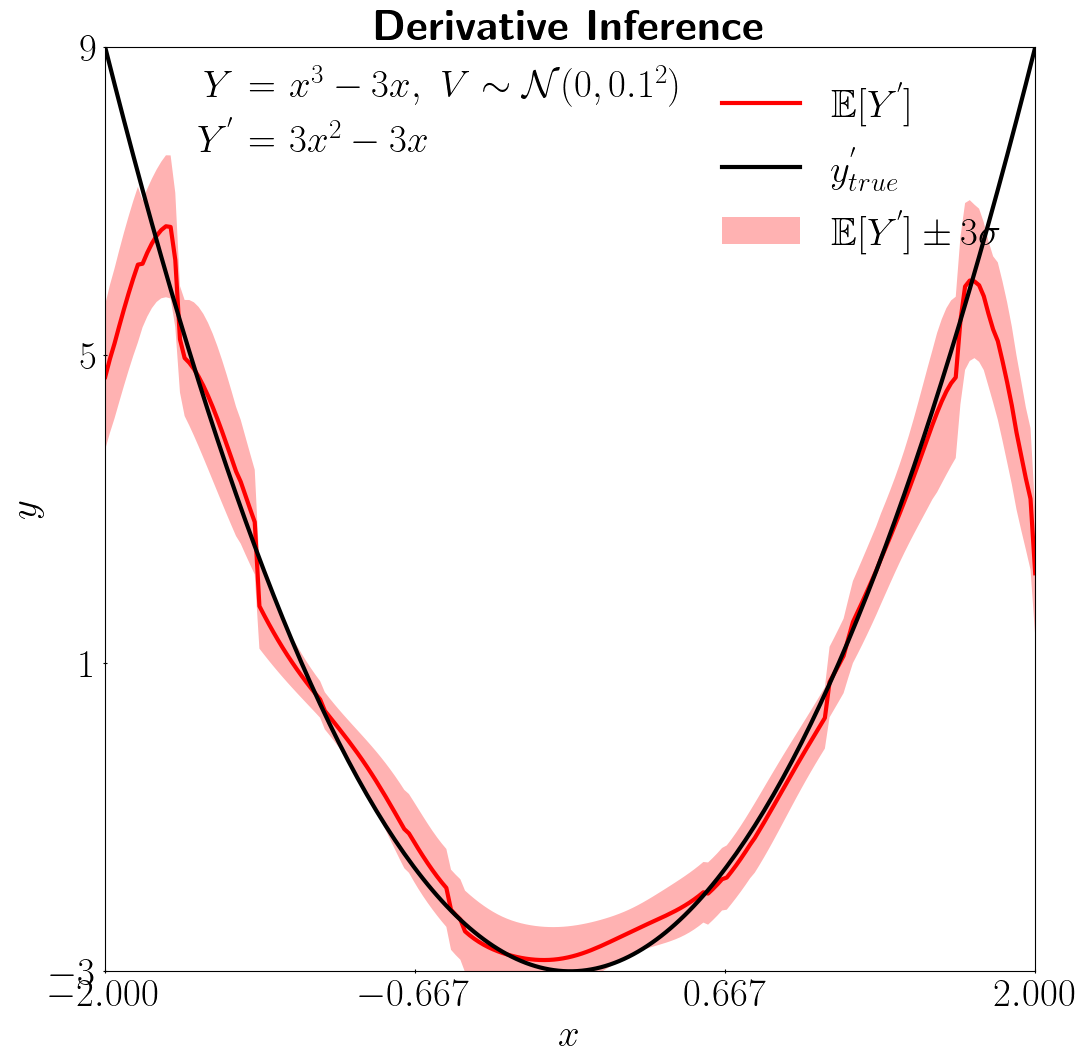
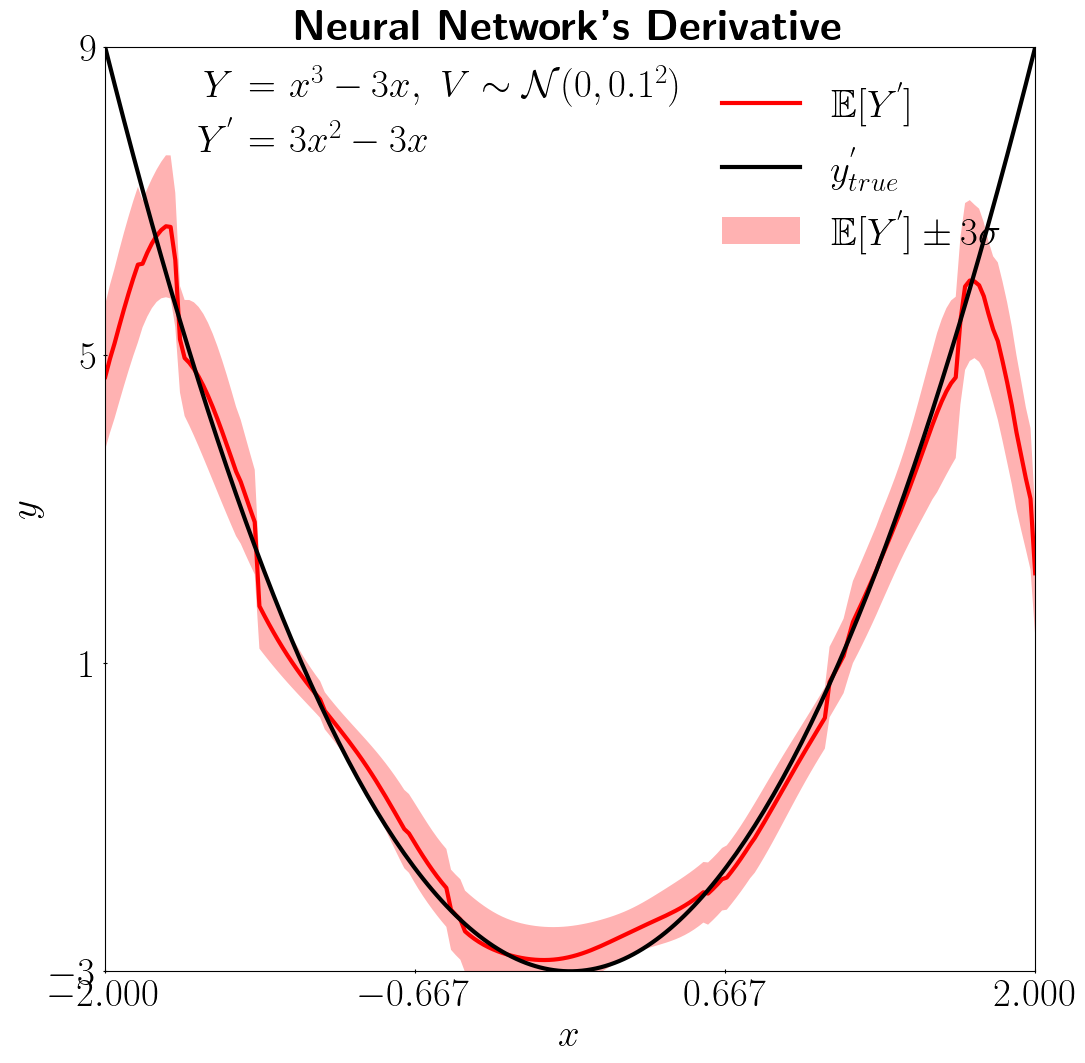
modify figure title

Changed region(s): [[0.2737, 0.0, 0.7908, 0.0621]]

diff --git a/visualizer.py b/visualizer.py
@@ -441,8 +441,8 @@ def derivative():
     dy_test_path = "./data/toy_example/derivative_dy_test_1D.csv"
     y_pred_path = "./saved_results/y_prediction.csv"
     sy_pred_path = "./saved_results/sy_prediction.csv"
-    md_pred_path = "./saved_results/md_prediction.csv"
-    Sd_pred_path = "./saved_results/Sd_prediction.csv"
+    md_pred_path = "./saved_results/md_prediction_best.csv"
+    Sd_pred_path = "./saved_results/Sd_prediction_best.csv"
 
     viz = PredictionViz(task_name=task_name, data_name=data_name)
 
@@ -469,7 +469,7 @@ def derivative():
         sy_pred=sd_pred,
         std_factor=std_factor,
         label="derivative",
-        title=r"\textbf{Derivative Inference}",
+        title=r"\textbf{Neural Network's Derivative}",
         eq=eq,
         x_eq=x_eq,
         y_eq=y_eq,
